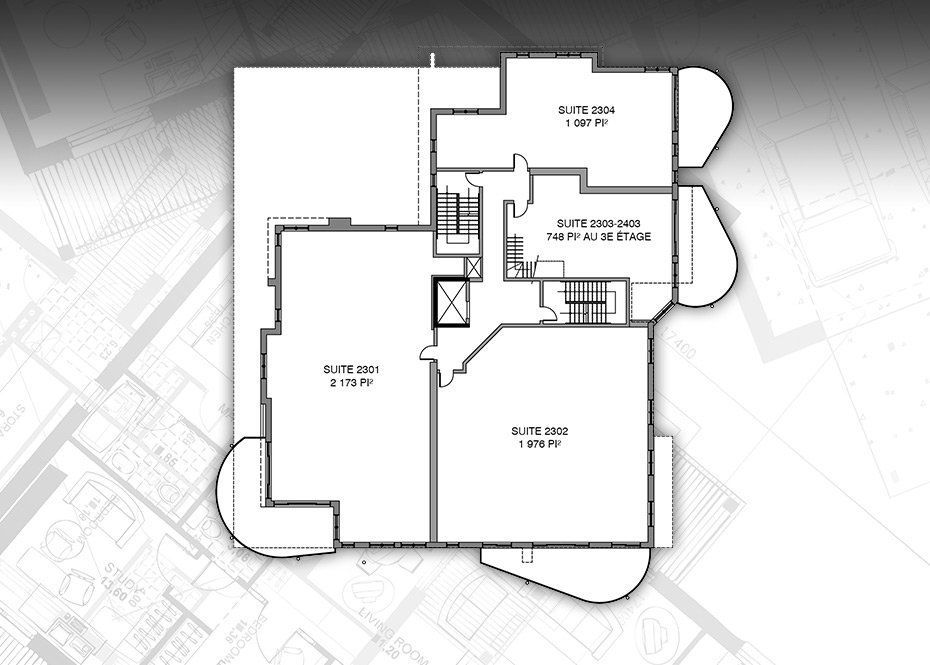
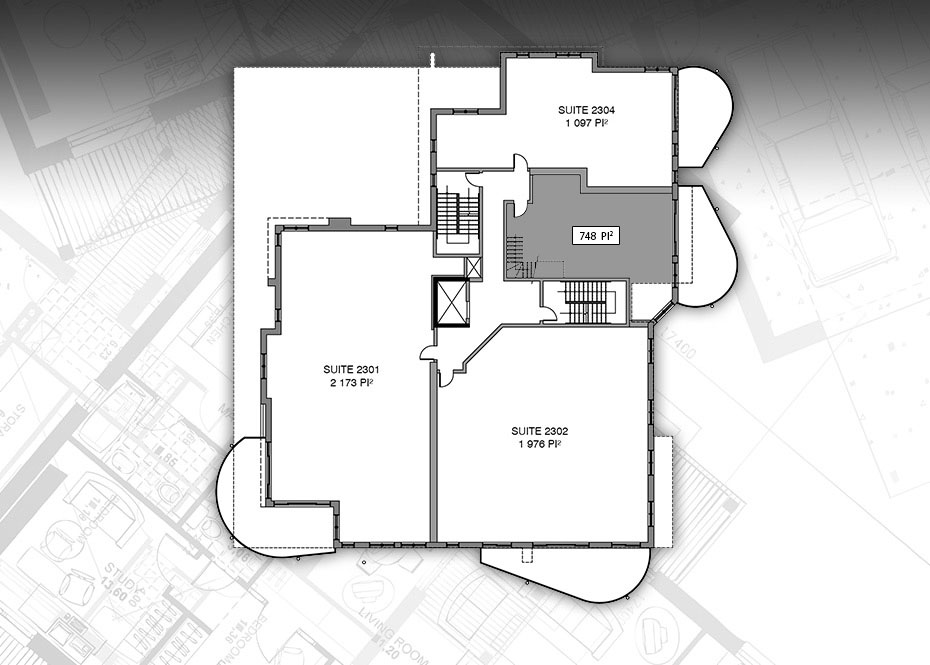
Marks newly sold condos as VENDU and updates the floor plans to reflect this with a grey background.

Changed region(s): [[0.5301, 0.2406, 0.7484, 0.4511]]

diff --git a/pages/phase2-etage-1.php b/pages/phase2-etage-1.php
@@ -12,9 +12,9 @@
 			    <img src="../assets/images/plan/phase-2/etage-1.jpg" alt="Etage 1" width="930" height="665" usemap="#etages" class="mapster" border="0" border="0" style="width: 100%; height: auto; width: auto" />
                 <map name="etages" id="etages">
                   <area id="VENDU" shape="poly" coords="503,54,503,168,583,169,584,188,674,187,674,165,702,165,732,112,732,95,727,83,717,73,704,68,697,65,686,65,677,70,594,68,594,52,503,54" href="2105" />
-                  <area shape="poly" coords="689,190,581,190,581,171,530,170,530,200,504,199,504,277,689,277,689,189" href="2104" />
+                  <area id="VENDU" shape="poly" coords="689,190,581,190,581,171,530,170,530,200,504,199,504,277,689,277,689,189" href="2104" />
                   <area shape="poly" coords="431,223,276,226,276,328,262,329,262,435,232,436,232,545,333,545,332,399,350,401,351,365,436,363,434,277,468,277,465,255,434,254,431,223" href="2101" />
-                  <area shape="poly" coords="492,364,353,366,352,401,335,402,337,543,523,544,523,428,491,428,492,365" href="2102" />
+                  <area id="VENDU" shape="poly" coords="492,364,353,366,352,401,335,402,337,543,523,544,523,428,491,428,492,365" href="2102" />
                   <area id="VENDU" shape="poly" coords="650,324,492,323,495,425,526,427,526,543,669,543,670,439,650,435,650,324" href="2103" />
                 </map>
             </div>

diff --git a/pages/phase2-etage-3.php b/pages/phase2-etage-3.php
@@ -8,10 +8,10 @@
         </div>
         <div class="row">
             <div id="plan-bottom">
-                <img src="../assets/images/plan/phase-2/etage-3.jpg" alt="Etage 1" width="930" height="665" usemap="#etages" class="mapster" border="0" style="width: 100%; height: auto; width: auto" />
+                <img src="../assets/images/plan/phase-2/etage-3.jpg" alt="Etage 3" width="930" height="665" usemap="#etages" class="mapster" border="0" style="width: 100%; height: auto; width: auto" />
                 <map name="etages" id="etages">
                   <area shape="poly" coords="672,72,592,71,592,57,506,57,506,114,436,115,435,168,587,168,587,187,672,188,673,72" href="2304" />
-                  <area shape="poly" coords="673,193,580,193,581,173,533,175,534,203,507,204,507,278,629,279,629,322,652,322,672,299,673,193" href="2303" />
+                  <area id="VENDU" shape="poly" coords="673,193,580,193,581,173,533,175,534,203,507,204,507,278,629,279,629,322,652,322,672,299,673,193" href="2303" />
                   <area shape="poly" coords="433,230,281,231,281,335,266,334,266,398,270,397,270,500,338,501,339,542,429,541,433,229" href="2301" />
                   <area id="VENDU" shape="poly" coords="437,542,648,542,647,327,503,327,466,364,466,372,437,373,436,542" href="2302" />
                 </map>

diff --git a/pages/phase2-etage-4.php b/pages/phase2-etage-4.php
@@ -8,7 +8,7 @@
         </div>
         <div class="row">
             <div id="plan-bottom">
-                <img src="../assets/images/plan/phase-2/etage-4.jpg" alt="Etage 1" width="930" height="665" usemap="#etages" class="mapster" border="0" style="width: 100%; height: auto; width: auto" />
+                <img src="../assets/images/plan/phase-2/etage-4.jpg" alt="Etage 4" width="930" height="665" usemap="#etages" class="mapster" border="0" style="width: 100%; height: auto; width: auto" />
                 <map name="etages" id="etages">
                   <area shape="poly" coords="673,63,592,61,592,47,504,47,504,105,433,105,433,181,451,182,451,158,586,158,586,178,674,177,673,63" href="2404" />
                   <area shape="poly" coords="673,185,579,185,579,165,531,165,531,195,505,195,504,271,629,271,629,314,652,314,673,294,673,185" href="2403" />

diff --git a/pages/phase2-etage-2.php b/pages/phase2-etage-2.php
@@ -8,7 +8,7 @@
         </div>
         <div class="row">
             <div id="plan-bottom">
-                <img src="../assets/images/plan/phase-2/etage-2.jpg" alt="Etage 1" width="930" height="665" usemap="#etages" class="mapster" border="0" />
+                <img src="../assets/images/plan/phase-2/etage-2.jpg" alt="Etage 2" width="930" height="665" usemap="#etages" class="mapster" border="0" />
                 <map name="etages" id="etages">
                   <area id="VENDU" shape="poly" coords="672,185,672,68,593,67,592,54,504,54,504,110,433,110,435,165,586,166,586,185,672,185" href="2205" />
                   <area shape="poly" coords="687,190,580,190,580,171,530,172,531,200,504,200,505,275,628,277,629,319,653,318,686,284,688,190" href="2204" />
